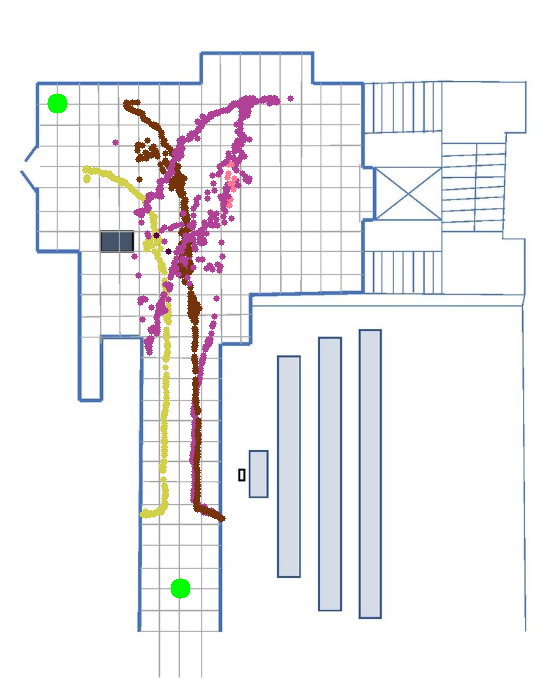
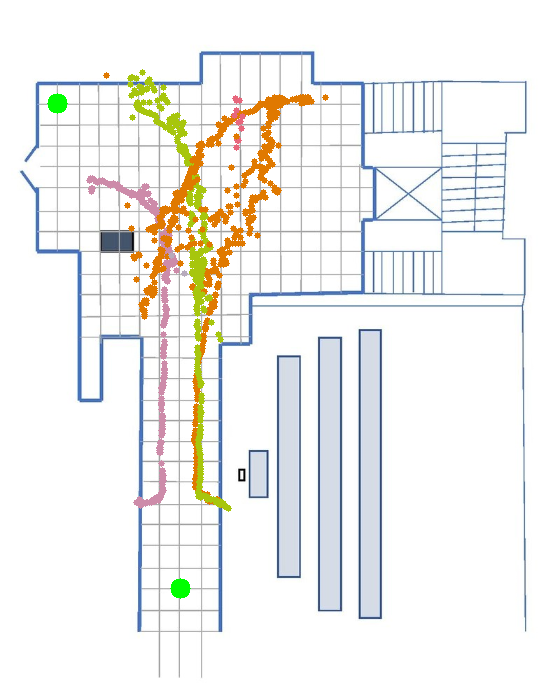
added final combined file support

Changed region(s): [[0.156, 0.09, 0.5927, 0.75]]

diff --git a/manageCamera.py b/manageCamera.py
@@ -16,10 +16,10 @@ REMOVED = [set()]
 NORMAL_BOX_HEIGHT = 178
 SCALE_FACTOR = 0.25
 BASE_CAMERA_ANGLE = 145 + 15
-PIXELS_PER_METER = 35
+PIXELS_PER_METER = 40.3
 #PIXELS_PER_METER = 32.5
 BALL_SIZE = 3
-WAIT_TIME = 0.3
+WAIT_TIME = 0.15
 blueprint = cv2.imread('Blueprints/Test_cases/jpg/BlueprintVectors1080.jpg')
 blueprint = cv2.resize(blueprint, (0, 0), fx=0.7, fy=0.7)
 copy_blueprint = blueprint.copy()
